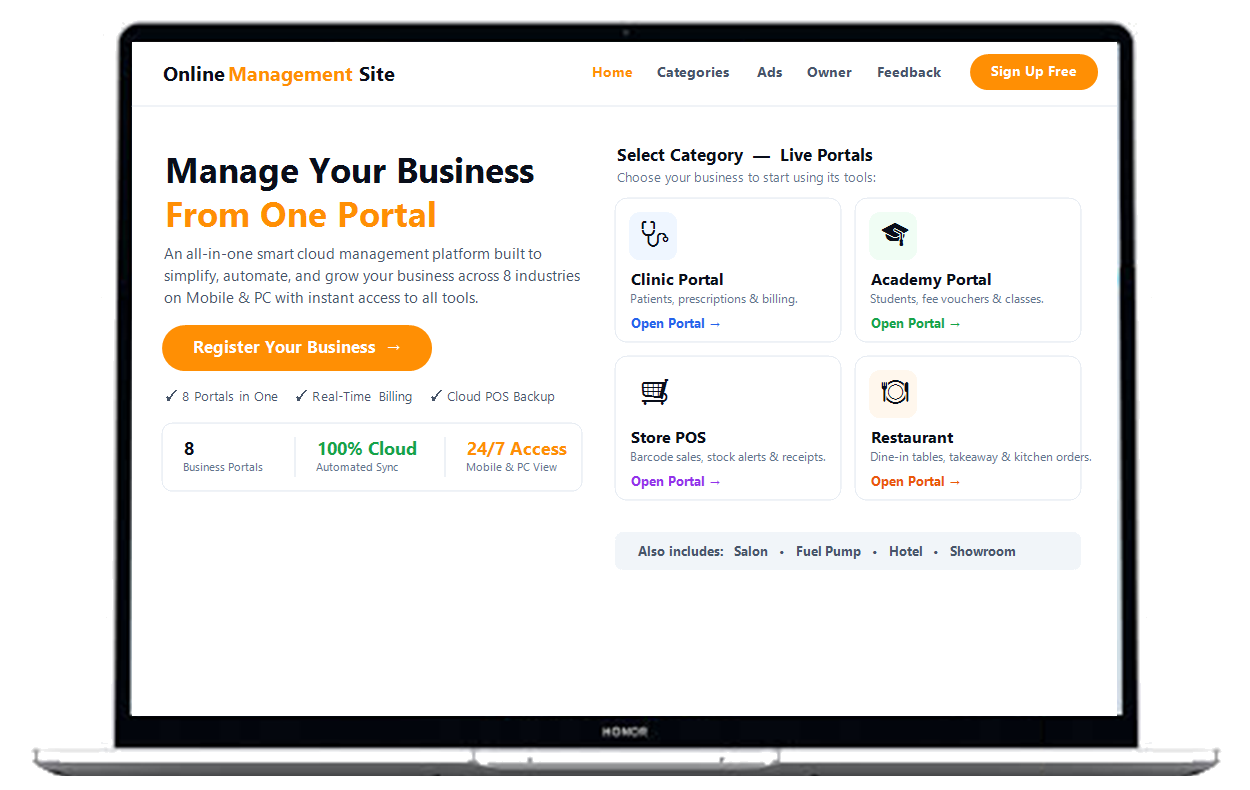
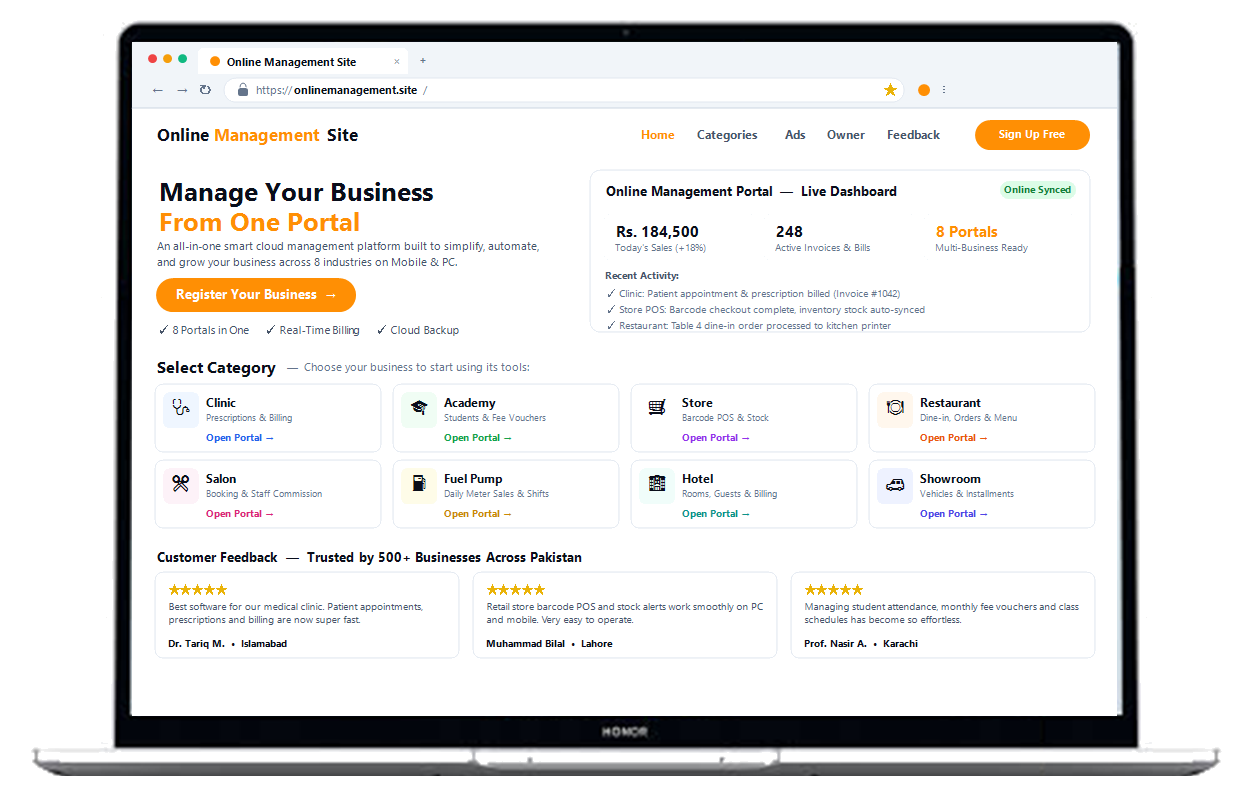
Show live website in clean browser window with https://onlinemanagement.site/ on laptop

diff --git a/index.html b/index.html
@@ -76,7 +76,7 @@
           </div>
           <div class="hero-col hero-col-right">
             <div class="hero-image-wrap">
-              <img src="devices.png?v=20261030Max" alt="Online Management Site open on Laptop" class="hero-devices-img" width="725" height="423" loading="eager" />
+              <img src="devices.png?v=20261030LiveBrowser" alt="Online Management Site open on Laptop" class="hero-devices-img" width="725" height="423" loading="eager" />
             </div>
           </div>
         </div>
